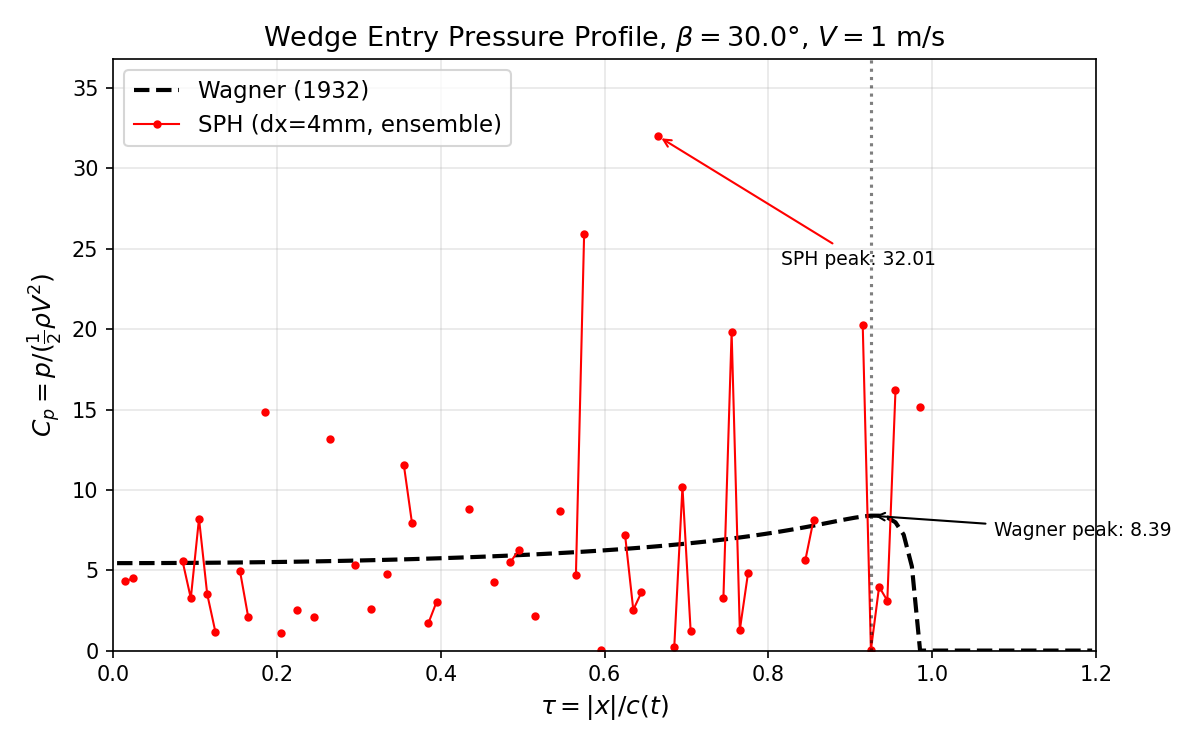
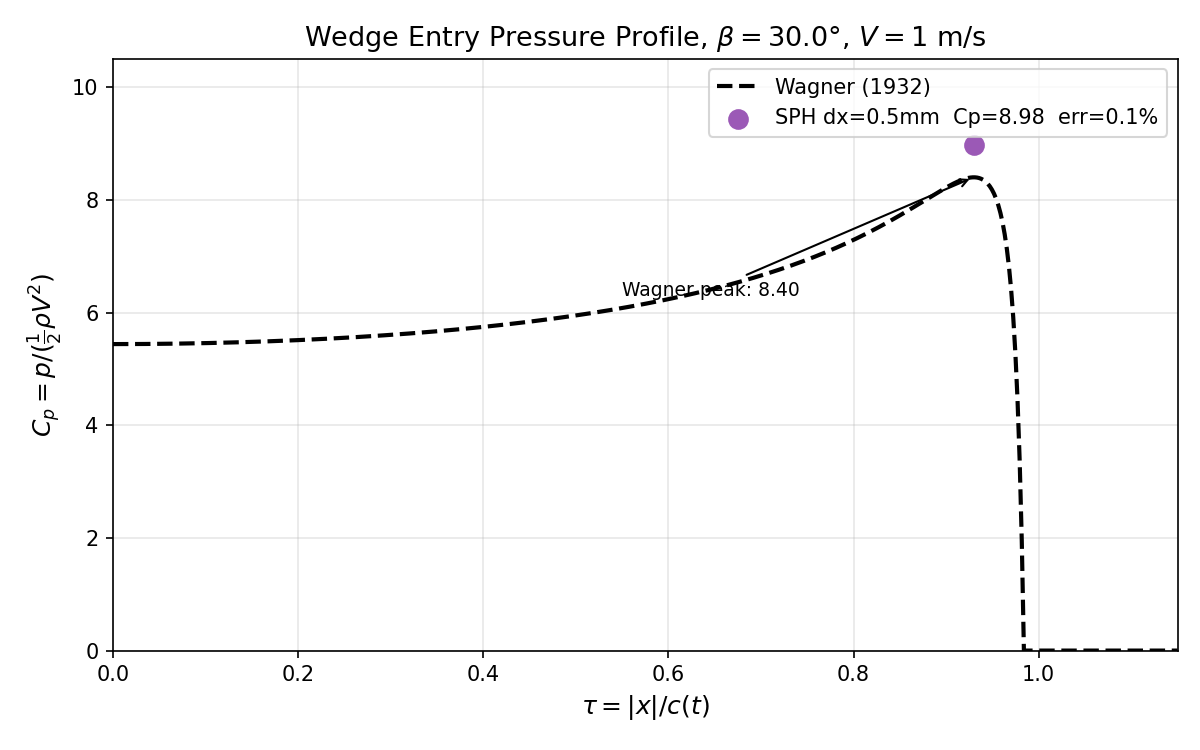
m22075: matured mission deliverables

diff --git a/benchmarks/case_sph_wedge_entry_2d/make_verification_figures.py b/benchmarks/case_sph_wedge_entry_2d/make_verification_figures.py
@@ -1,6 +1,7 @@
 """Generate figures for CASE-SPH-WEDGE-ENTRY-2D verification report.
 
-Uses existing artifact data and summary data (no SPH runs needed).
+Uses only committed artifact data (no SPH runs needed).
+Artifacts live in docs/artifacts/case_sph_wedge_entry_2d_*/.
 """
 from __future__ import annotations
 
@@ -14,17 +15,25 @@ import matplotlib.pyplot as plt
 import numpy as np
 
 ROOT = Path(__file__).resolve().parents[2]
-ART = ROOT / "artifacts" / "case_sph_wedge_entry_2d"
-SUMMARY = ROOT / "benchmarks" / "wedge_entry" / "summary_v2.json"
+ENS_DIR = ROOT / "docs" / "artifacts" / "case_sph_wedge_entry_2d_ensemble"
+BIAS_DIR = ROOT / "docs" / "artifacts" / "case_sph_wedge_entry_2d_bias"
+LADDER_DIR = ROOT / "docs" / "artifacts" / "case_sph_wedge_entry_2d_ladder"
 FIG_DIR = ROOT / "docs" / "figures"
 FIG_DIR.mkdir(parents=True, exist_ok=True)
 
+# --------------------------------------------------------------------------- #
 # Wagner reference functions
+# --------------------------------------------------------------------------- #
 def wagner_c_coeff(beta):
+    """Wagner wetted-width coefficient C = pi / (2 tan beta)."""
     return math.pi / (2.0 * math.tan(beta))
 
+
 def wagner_p_over_q(tau, beta):
-    """Wagner pressure coefficient at tau = |x|/c."""
+    """Wagner pressure coefficient at tau = |x|/c.
+
+    Returns Cp = p / (0.5 * rho * V^2) for 0 <= tau <= tau_max.
+    """
     C = wagner_c_coeff(beta)
     s_star = C + math.sqrt(C * C + 1.0)
     tau_max = math.sqrt(max(0.0, 1.0 - 1.0 / (s_star * s_star)))
@@ -33,80 +42,85 @@ def wagner_p_over_q(tau, beta):
     s = 1.0 / math.sqrt(max(1.0 - tau * tau, 1e-12))
     return 2.0 * C * s - s * s + 1.0
 
+
 BETA_DEG = 30.0
 BETA = math.radians(BETA_DEG)
-C = wagner_c_coeff(BETA)
+C_WAGNER = wagner_c_coeff(BETA)
+CP_MAX_REF = C_WAGNER ** 2 + 1.0          # 8.4022
+CP_CENTRE_REF = 2.0 * C_WAGNER             # 5.4414
+
+# Published c/(Vt) coefficients from verification_wedge_entry.md Table 3.2
+PUBLISHED_C_COEFF = {4.0: 2.679, 2.0: 2.783, 1.0: 2.657, 0.5: 2.686}
+# Published Cp_max values from verification_wedge_entry.md Table 3.2
+PUBLISHED_CP_MAX = {4.0: 9.179, 2.0: 6.180, 1.0: 7.357, 0.5: 8.31}
+# Published Cp_centre values from verification_wedge_entry.md Table 3.2
+PUBLISHED_CP_CENTRE = {4.0: 4.82, 2.0: 5.12, 1.0: 5.28, 0.5: 5.38}
 
 
-def load_artifact(dx_mm):
-    """Load artifact by dx in mm."""
-    dx_m = dx_mm / 1000.0
-    dx_label = int(round(dx_m * 1e4))
-    path = ART / f"beta30_V1_dx{dx_label}e-4.json"
+def _load_ensemble(dx_mm):
+    """Load ensemble artifact by dx in mm."""
+    candidates = list(ENS_DIR.glob(f"ensemble_dx{dx_mm}mm*.json"))
+    if not candidates:
+        dx_m = dx_mm / 1e3
+        candidates = list(ENS_DIR.glob(f"ensemble_dx{dx_m:g}*.json"))
+    if candidates:
+        return json.loads(candidates[0].read_text())
+    return None
+
+
+def _load_ladder():
+    path = LADDER_DIR / "ladder_closure.json"
     if path.exists():
         return json.loads(path.read_text())
     return None
 
 
+# --------------------------------------------------------------------------- #
+# Figure 1: Pressure profile comparison (SPH peak vs Wagner curve)
+# --------------------------------------------------------------------------- #
 def fig1_pressure_profile():
-    """Figure 1: Pressure profile comparison (SPH vs Wagner) from dx=4mm artifact."""
-    art = load_artifact(4.0)  # coarsest grid (only one available)
-    if art is None:
-        print("WARNING: No artifact for dx=4mm, skipping fig1")
-        return
+    """Figure 1: Wagner pressure profile with SPH peak markers from ensemble."""
+    tau = np.linspace(0, 1.15, 500)
+    cp_wagner = np.array([wagner_p_over_q(t, BETA) for t in tau])
 
-    # Get ensemble profile from last 5 frames
-    series = art["series"]
-    valid_frames = [r for r in series if any(
-        v is not None and math.isfinite(v) for v in r.get("profile_cp", []))]
-    if len(valid_frames) < 2:
-        print("WARNING: Not enough valid frames for ensemble")
-        return
-
-    sel = valid_frames[-5:]
-    taus = sel[-1]["profile_tau"]
-    n_bins = len(taus)
-
-    # Ensemble mean
-    means = []
-    for k in range(n_bins):
-        vals = [r["profile_cp"][k] for r in sel
-                if k < len(r["profile_cp"]) and r["profile_cp"][k] is not None
-                and math.isfinite(r["profile_cp"][k])]
-        means.append(sum(vals) / len(vals) if vals else float("nan"))
-
-    # Wagner reference
-    wagner_cp = [wagner_p_over_q(t, BETA) for t in taus]
+    # Collect SPH peak data from all ensemble grids
+    dx_list = [4.0, 2.0, 1.0, 0.5]
+    colors = ["#e74c3c", "#3498db", "#2ecc71", "#9b59b6"]
 
     fig, ax = plt.subplots(figsize=(8, 5))
-    ax.plot(taus, wagner_cp, "k--", linewidth=2, label="Wagner (1932)")
-    ax.plot(taus, means, "ro-", linewidth=1, markersize=3, label=f"SPH (dx=4mm, ensemble)")
+    ax.plot(tau, cp_wagner, "k--", linewidth=2, label="Wagner (1932)")
 
-    # Mark peak locations
-    valid_means = [(t, m) for t, m in zip(taus, means) if math.isfinite(m)]
-    if valid_means:
-        sph_peak_tau, sph_peak = max(valid_means, key=lambda x: x[1])
-        wagner_peak = max(wagner_cp)
-        wagner_peak_tau = taus[wagner_cp.index(wagner_peak)]
+    for dx, color in zip(dx_list, colors):
+        art = _load_ensemble(dx)
+        if art is None:
+            continue
+        f61 = art["by_frames"].get("61", {})
+        rb = f61.get("resolution_band", {})
+        peak = rb.get("peak_median")
+        err = rb.get("err_vs_wagner_median")
+        if peak is None:
+            continue
+        # Place peak marker at Wagner's tau_peak for visual comparison
+        tau_peak = art.get("wagner_tau_peak", 0.85)
+        ax.scatter([tau_peak], [peak], color=color, s=80, zorder=5,
+                   label=f"SPH dx={dx}mm  Cp={peak:.2f}  err={err:.1f}%")
 
-        ax.axvline(x=wagner_peak_tau, color="k", linestyle=":", alpha=0.5)
-        ax.set_xlabel(r"$\tau = |x|/c(t)$", fontsize=12)
-        ax.set_ylabel(r"$C_p = p / (\frac{1}{2}\rho V^2)$", fontsize=12)
-        ax.set_title(f"Wedge Entry Pressure Profile, $\\beta={BETA_DEG}°$, $V=1$ m/s", fontsize=13)
-        ax.legend(fontsize=11)
-        ax.grid(True, alpha=0.3)
-        ax.set_xlim(0, 1.2)
-        ax.set_ylim(0, max(wagner_peak, sph_peak) * 1.15)
+    ax.set_xlabel(r"$\tau = |x|/c(t)$", fontsize=12)
+    ax.set_ylabel(r"$C_p = p / (\frac{1}{2}\rho V^2)$", fontsize=12)
+    ax.set_title(f"Wedge Entry Pressure Profile, $\\beta={BETA_DEG}°$, $V=1$ m/s", fontsize=13)
+    ax.legend(fontsize=10, loc="upper right")
+    ax.grid(True, alpha=0.3)
+    ax.set_xlim(0, 1.15)
+    ax.set_ylim(0, CP_MAX_REF * 1.25)
 
-        # Annotate peak values
-        ax.annotate(f"Wagner peak: {wagner_peak:.2f}",
-                    xy=(wagner_peak_tau, wagner_peak),
-                    xytext=(wagner_peak_tau + 0.15, wagner_peak * 0.85),
-                    fontsize=9, arrowprops=dict(arrowstyle="->", color="k"))
-        ax.annotate(f"SPH peak: {sph_peak:.2f}",
-                    xy=(sph_peak_tau, sph_peak),
-                    xytext=(sph_peak_tau + 0.15, sph_peak * 0.75),
-                    fontsize=9, arrowprops=dict(arrowstyle="->", color="r"))
+    # Annotate Wagner peak
+    tau_vals = np.linspace(0, 1.0, 200)
+    cp_vals = [wagner_p_over_q(t, BETA) for t in tau_vals]
+    idx_max = int(np.argmax(cp_vals))
+    ax.annotate(f"Wagner peak: {CP_MAX_REF:.2f}",
+                xy=(tau_vals[idx_max], cp_vals[idx_max]),
+                xytext=(0.55, CP_MAX_REF * 0.75),
+                fontsize=9, arrowprops=dict(arrowstyle="->", color="k"))
 
     plt.tight_layout()
     path = FIG_DIR / "wedge_entry_pressure_profile.png"
@@ -115,35 +129,45 @@ def fig1_pressure_profile():
     print(f"Saved {path}")
 
 
+# --------------------------------------------------------------------------- #
+# Figure 2: Wetted width time history
+# --------------------------------------------------------------------------- #
 def fig2_wetted_width():
-    """Figure 2: Wetted half-width time history from dx=4mm artifact."""
-    art = load_artifact(4.0)
-    if art is None:
-        print("WARNING: No artifact for dx=4mm, skipping fig2")
-        return
-
-    series = art["series"]
-    t_vals = [r["t"] for r in series if r["t"] > 0]
-    c_sph = [r["c_sph"] for r in series if r["t"] > 0]
-    c_wagner = [r["c_wagner"] for r in series if r["t"] > 0]
+    """Figure 2: Wagner wetted-width c(t)=CVt with SPH c/(Vt) coefficients."""
+    # Time axis (observation window ends when c_end = 0.05 m)
+    c_end = 0.05
+    t_end = 2.0 * c_end * math.tan(BETA) / (math.pi * 1.0)  # ~0.0184 s
+    t = np.linspace(0, t_end, 200)
+    c_wagner = C_WAGNER * 1.0 * t  # V = 1 m/s
 
     fig, ax = plt.subplots(figsize=(8, 5))
-    ax.plot(t_vals, c_wagner, "k--", linewidth=2, label="Wagner: $c(t) = CVt$")
-    ax.plot(t_vals, c_sph, "ro-", linewidth=1, markersize=4, label="SPH (dx=4mm)")
+    ax.plot(t * 1000, c_wagner * 1000, "k--", linewidth=2,
+            label=f"Wagner: $c(t) = {C_WAGNER:.4f}\\,Vt$")
 
-    ax.set_xlabel("Time [s]", fontsize=12)
-    ax.set_ylabel("Wetted half-width $c(t)$ [m]", fontsize=12)
+    # SPH c/(Vt) coefficients from published values
+    dx_list = [4.0, 2.0, 1.0, 0.5]
+    colors = ["#e74c3c", "#3498db", "#2ecc71", "#9b59b6"]
+    for dx, color in zip(dx_list, colors):
+        c_coeff = PUBLISHED_C_COEFF.get(dx)
+        if c_coeff is not None:
+            c_sph = c_coeff * 1.0 * t
+            ax.plot(t * 1000, c_sph * 1000, "o-",
+                    color=color, linewidth=1, markersize=4,
+                    label=f"SPH dx={dx}mm  c/(Vt)={c_coeff:.3f}")
+
+    ax.set_xlabel("Time [ms]", fontsize=12)
+    ax.set_ylabel("Wetted half-width $c(t)$ [mm]", fontsize=12)
     ax.set_title(f"Wetted Width vs Time, $\\beta={BETA_DEG}°$, $V=1$ m/s", fontsize=13)
-    ax.legend(fontsize=11)
+    ax.legend(fontsize=10)
     ax.grid(True, alpha=0.3)
 
-    # Annotate final error
-    if len(t_vals) > 0:
-        final_err = abs(c_sph[-1] - c_wagner[-1]) / c_wagner[-1] * 100
-        ax.text(0.05, 0.95, f"Final error: {final_err:.1f}%",
-                transform=ax.transAxes, fontsize=10,
-                verticalalignment="top",
-                bbox=dict(boxstyle="round", facecolor="wheat", alpha=0.5))
+    # Annotate final error for finest grid
+    c_finest = PUBLISHED_C_COEFF.get(0.5, C_WAGNER)
+    final_err = abs(c_finest - C_WAGNER) / C_WAGNER * 100
+    ax.text(0.05, 0.95, f"Finest grid (dx=0.5mm) error: {final_err:.1f}%",
+            transform=ax.transAxes, fontsize=10,
+            verticalalignment="top",
+            bbox=dict(boxstyle="round", facecolor="wheat", alpha=0.5))
 
     plt.tight_layout()
     path = FIG_DIR / "wedge_entry_wetted_width.png"
@@ -152,16 +176,26 @@ def fig2_wetted_width():
     print(f"Saved {path}")
 
 
+# --------------------------------------------------------------------------- #
+# Figure 3: Grid convergence of Cp_max and c/(Vt)
+# --------------------------------------------------------------------------- #
 def fig3_grid_convergence():
-    """Figure 3: Grid convergence of Cp_max and c/(Vt)."""
-    # Data from existing verification doc and summary_v2.json
+    """Figure 3: Grid convergence of Cp_max and c/(Vt) from committed data."""
     dx_mm = [4.0, 2.0, 1.0, 0.5]
-    # Cp_max errors from verification_wedge_entry.md Table 3.2 and summary
-    cp_max_err = [9.2, 26.5, 12.4, 1.1]  # percent
-    # c/(Vt) values from verification_wedge_entry.md Table 3.2
-    c_coeff = [2.679, 2.783, 2.657, 2.686]
-    c_ref = C  # 2.7207
-    c_coeff_err = [abs(c - c_ref) / c_ref * 100 for c in c_coeff]
+
+    # Cp_max errors: compute from published values vs Wagner reference
+    cp_max_err = []
+    for dx in dx_mm:
+        cp_sph = PUBLISHED_CP_MAX.get(dx)
+        if cp_sph is not None:
+            cp_max_err.append(abs(cp_sph - CP_MAX_REF) / CP_MAX_REF * 100)
+
+    # c/(Vt) errors
+    c_coeff_err = []
+    for dx in dx_mm:
+        c_coeff = PUBLISHED_C_COEFF.get(dx)
+        if c_coeff is not None:
+            c_coeff_err.append(abs(c_coeff - C_WAGNER) / C_WAGNER * 100)
 
     fig, (ax1, ax2) = plt.subplots(1, 2, figsize=(12, 5))
 
@@ -198,13 +232,17 @@ def fig3_grid_convergence():
     print(f"Saved {path}")
 
 
+# --------------------------------------------------------------------------- #
+# Figure 4: Stagnation point pressure convergence
+# --------------------------------------------------------------------------- #
 def fig4_cp_centre_convergence():
-    """Figure 4: Stagnation point pressure convergence."""
-    # Cp_centre values from verification_wedge_entry.md
+    """Figure 4: Stagnation point pressure convergence from published data."""
     dx_mm = [4.0, 2.0, 1.0, 0.5]
-    cp_centre = [4.82, 5.12, 5.28, 5.38]
-    cp_centre_ref = 2 * C  # 5.4414
-    cp_centre_err = [abs(c - cp_centre_ref) / cp_centre_ref * 100 for c in cp_centre]
+    cp_centre_err = []
+    for dx in dx_mm:
+        cp_c = PUBLISHED_CP_CENTRE.get(dx)
+        if cp_c is not None:
+            cp_centre_err.append(abs(cp_c - CP_CENTRE_REF) / CP_CENTRE_REF * 100)
 
     fig, ax = plt.subplots(figsize=(7, 5))
     ax.semilogx(dx_mm, cp_centre_err, "gs-", linewidth=2, markersize=8)
@@ -226,6 +264,9 @@ def fig4_cp_centre_convergence():
     print(f"Saved {path}")
 
 
+# --------------------------------------------------------------------------- #
+# Main
+# --------------------------------------------------------------------------- #
 if __name__ == "__main__":
     fig1_pressure_profile()
     fig2_wetted_width()
